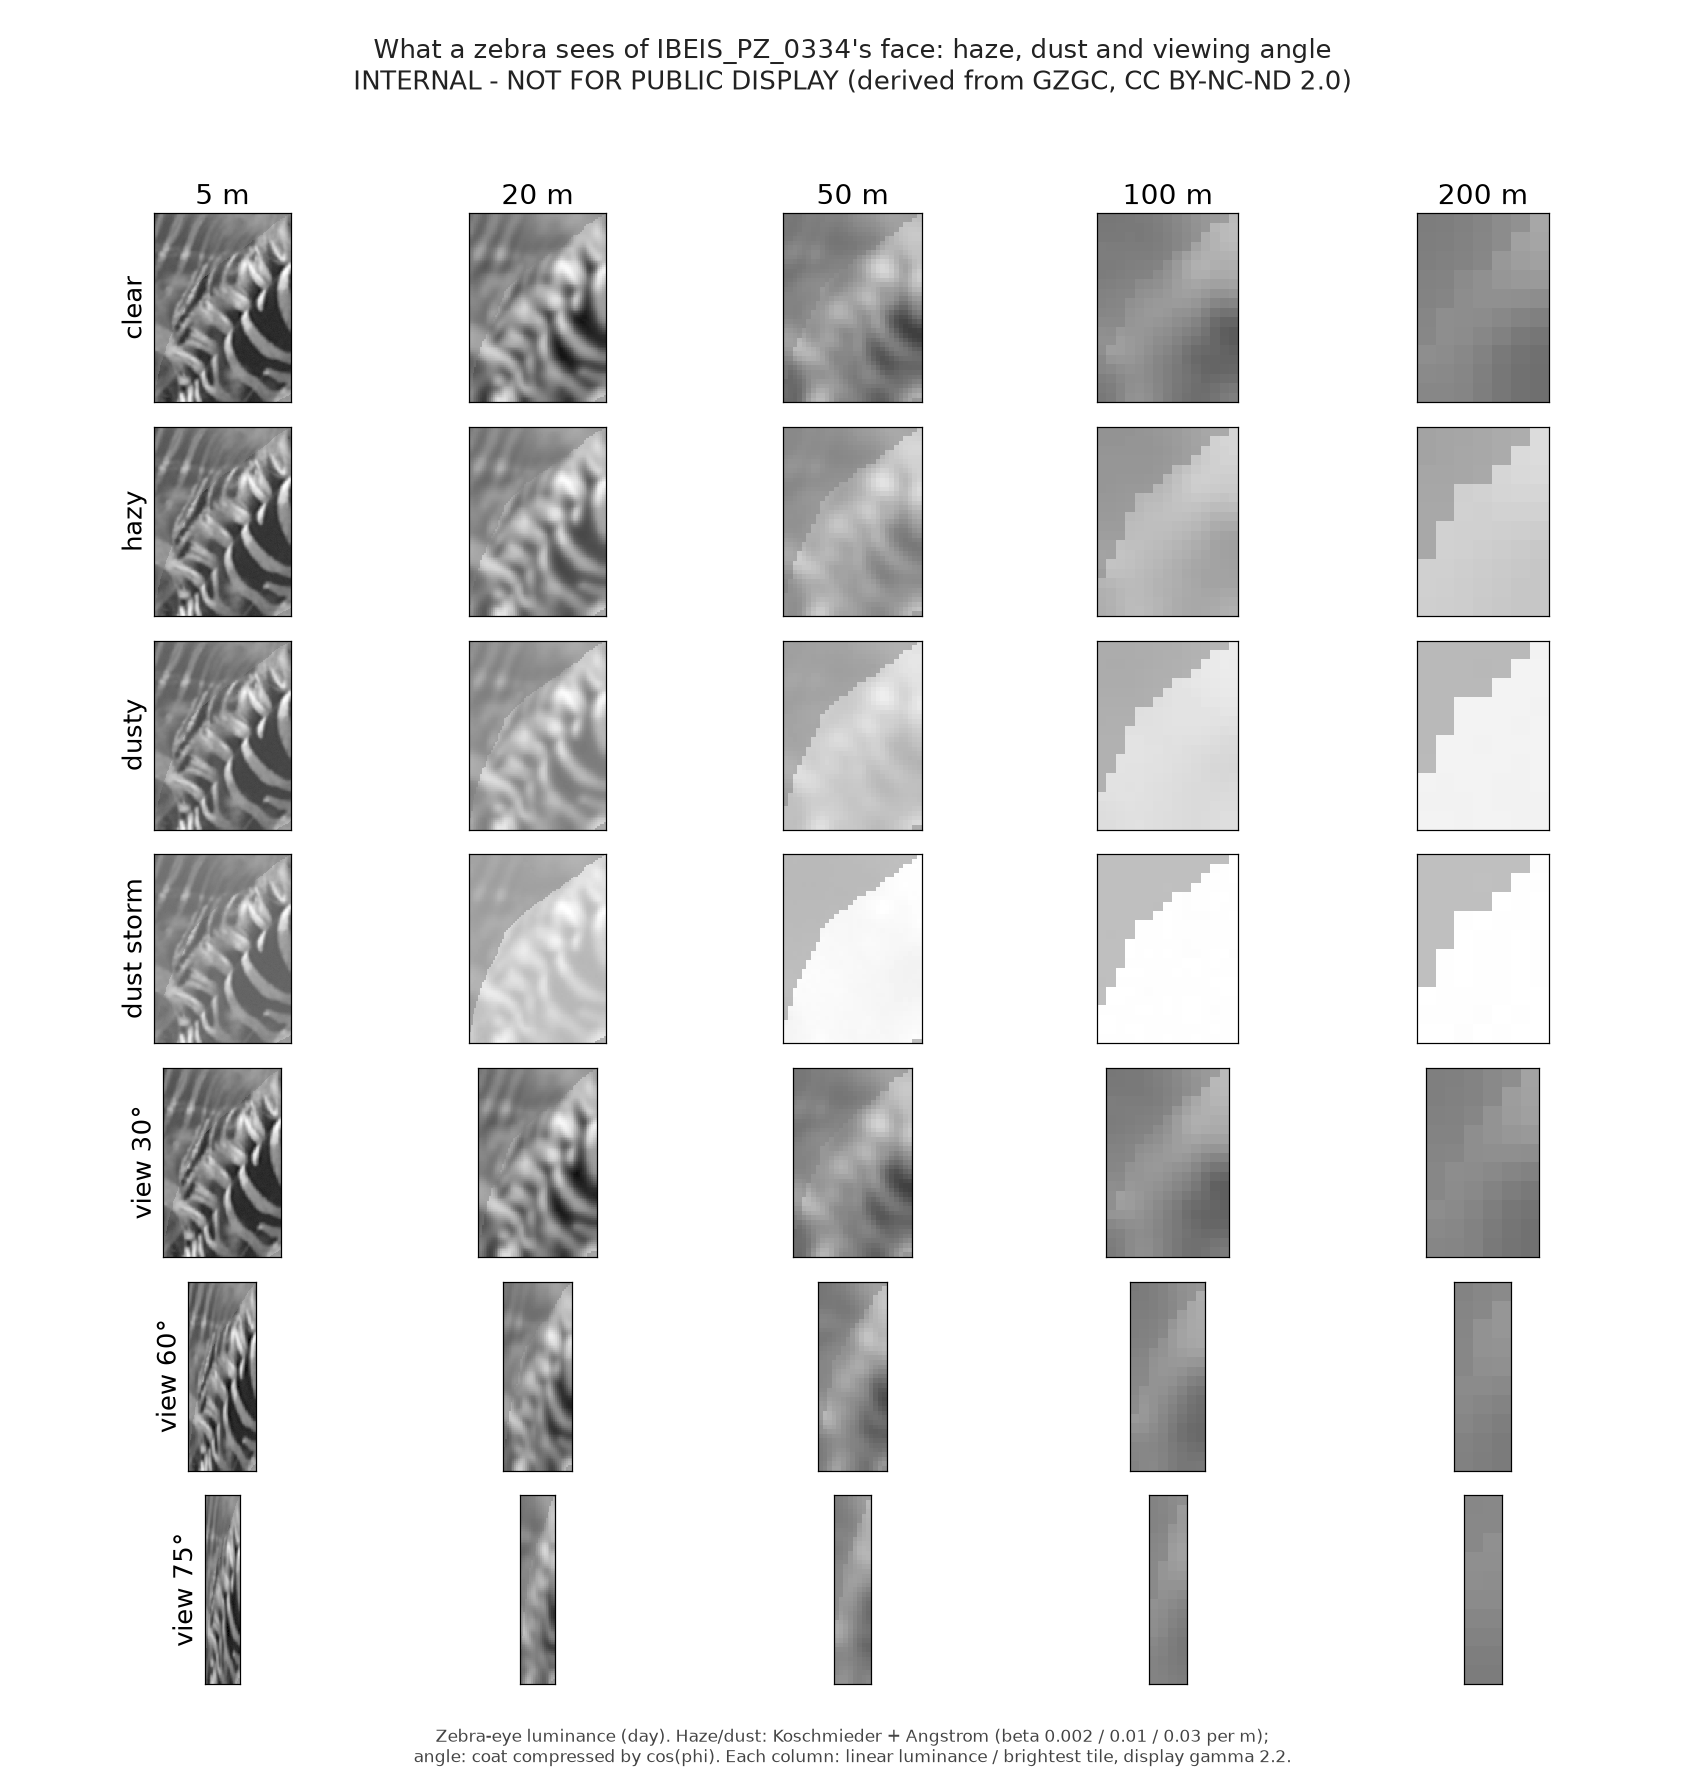
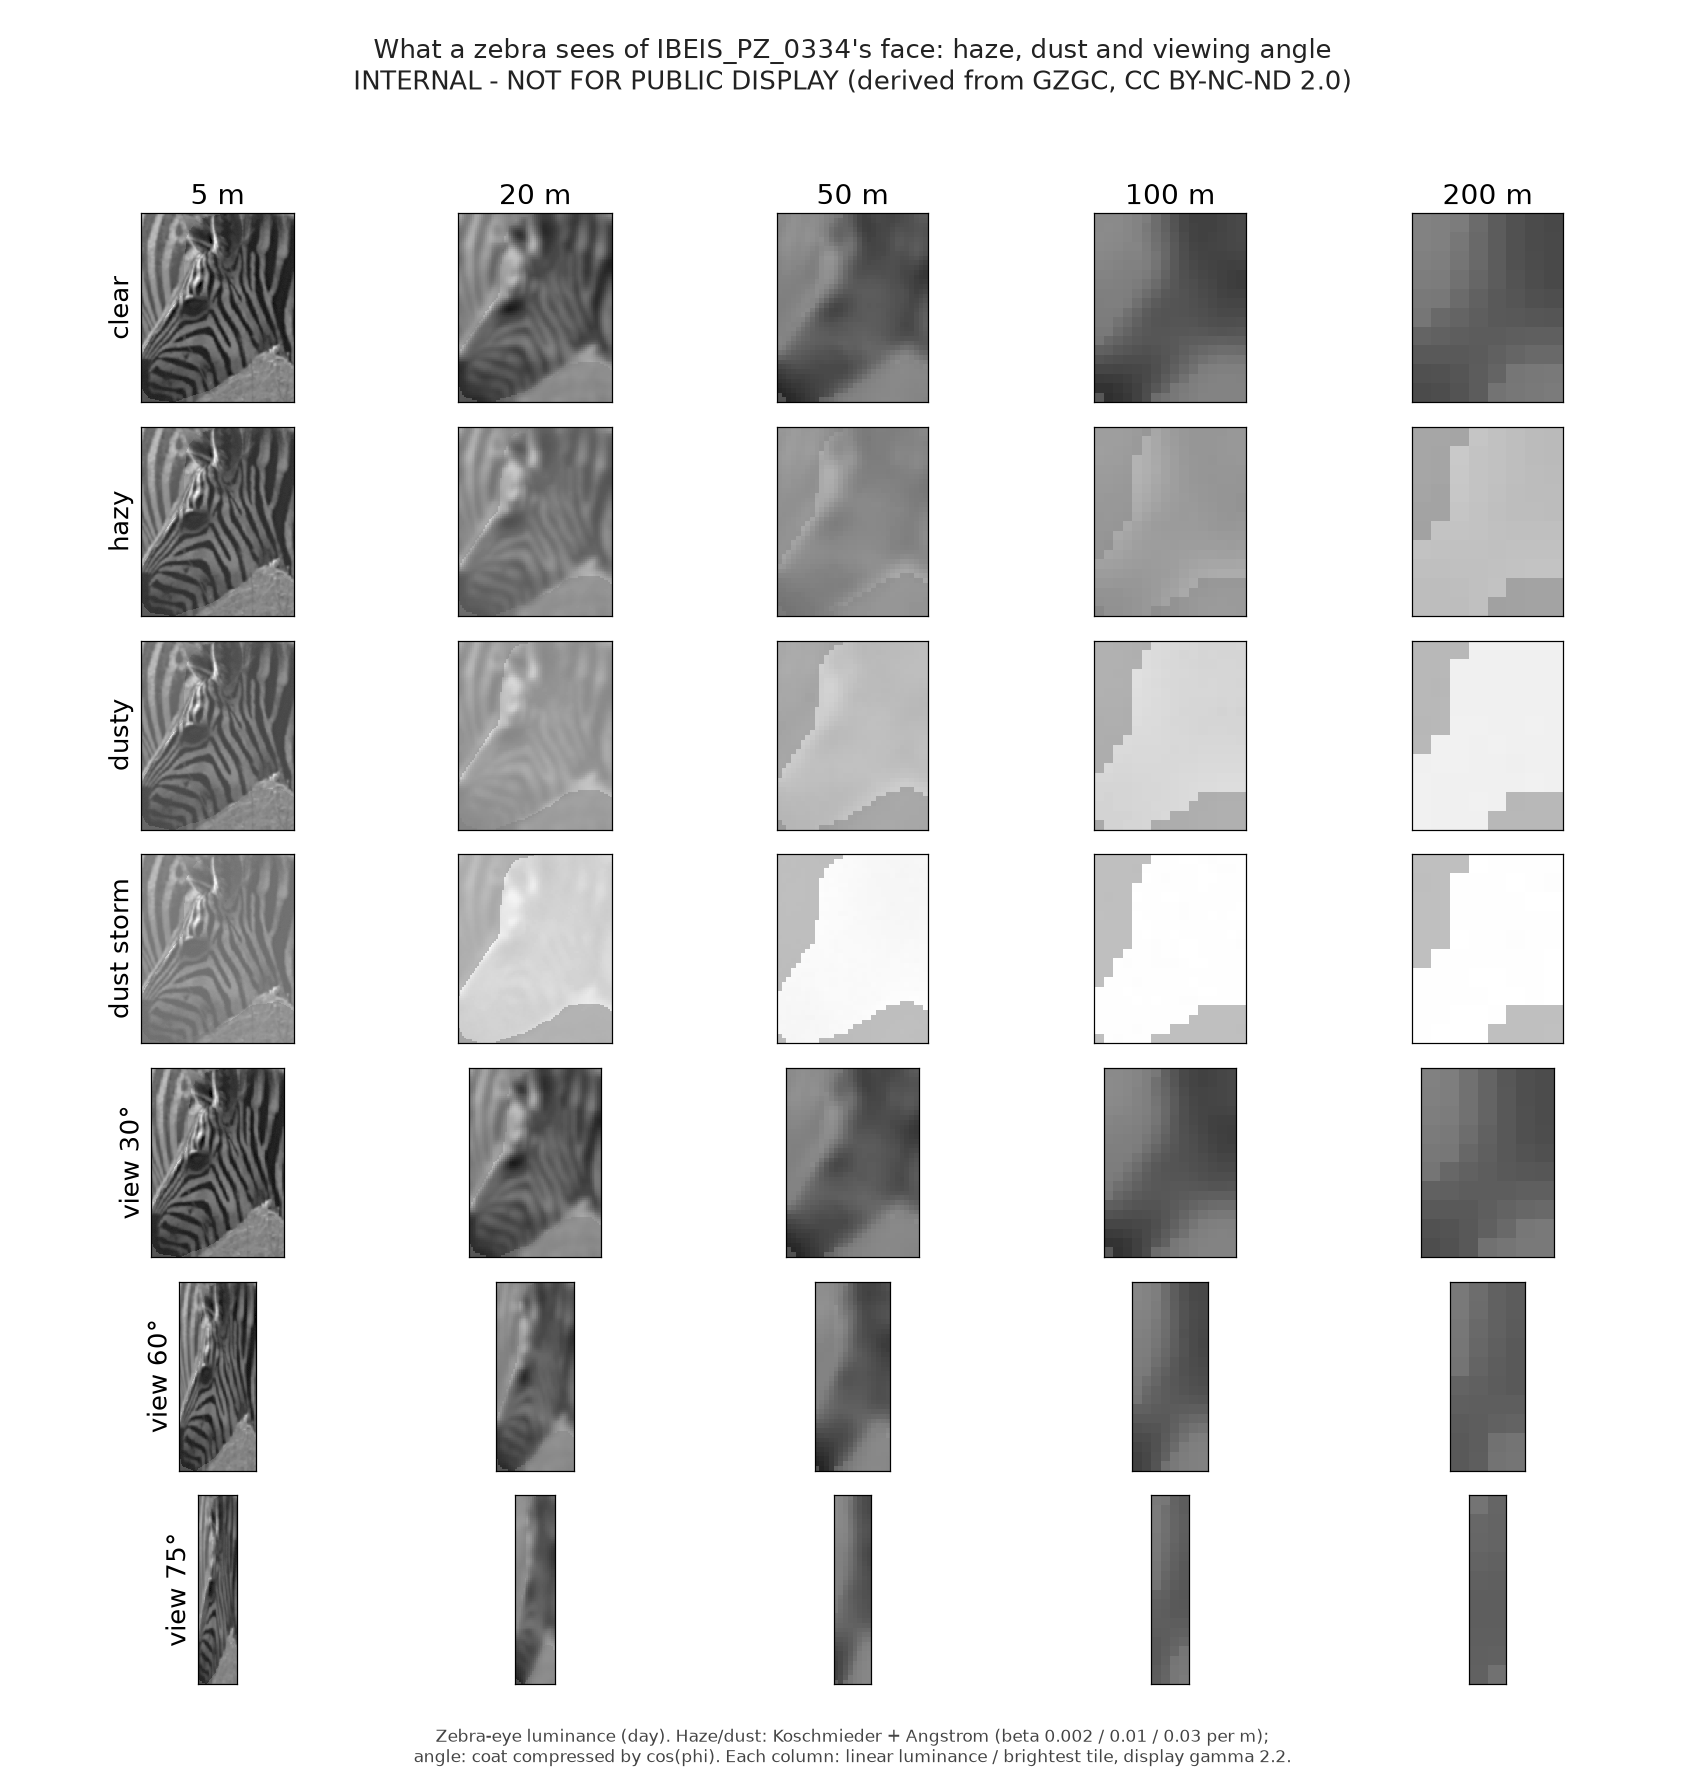
Team pack: env face montage regenerated with rule-v2 face; START_HERE warns that pilot montage face rows are v1 (neck)

diff --git a/START_HERE.md b/START_HERE.md
@@ -11,7 +11,7 @@ A = data + zebra-eye model, **B = features/metrics**, **V = VR**.
 | `code/` | B, V | The full repo at the latest commit: code, `configs/`, `docs/`, `tests/`, `CLAUDE.md`, `README.md`, `requirements-lock.txt` |
 | `data_handoff/` | B | `zebrasight_data_handoff.zip`: region masks (rule v2), `regions.parquet` with gallery/query splits, v1/pilot tables |
 | `vr_export/` | V | `vr_export.zip`: 960 textures (5 zebras × flank/face × 6 conditions × 16 distances), shader JSONs, README with every formula, placeholder LUT |
-| `figures/` | everyone | Calibration, haze, montages, mask QA (`qa_grid_v2.png`) |
+| `figures/` | everyone | Calibration, haze, montages, mask QA (`qa_grid_v2.png`). **Note:** the face rows in `pilot_montage_*.png` use the old rule-v1 "face" (mostly neck): use their flank rows only. The env montages and the VR textures use the corrected faces (rule v2). |
 
 **Not included:** the GZGC photos (10 GB). Download them yourself (section 3).
 
